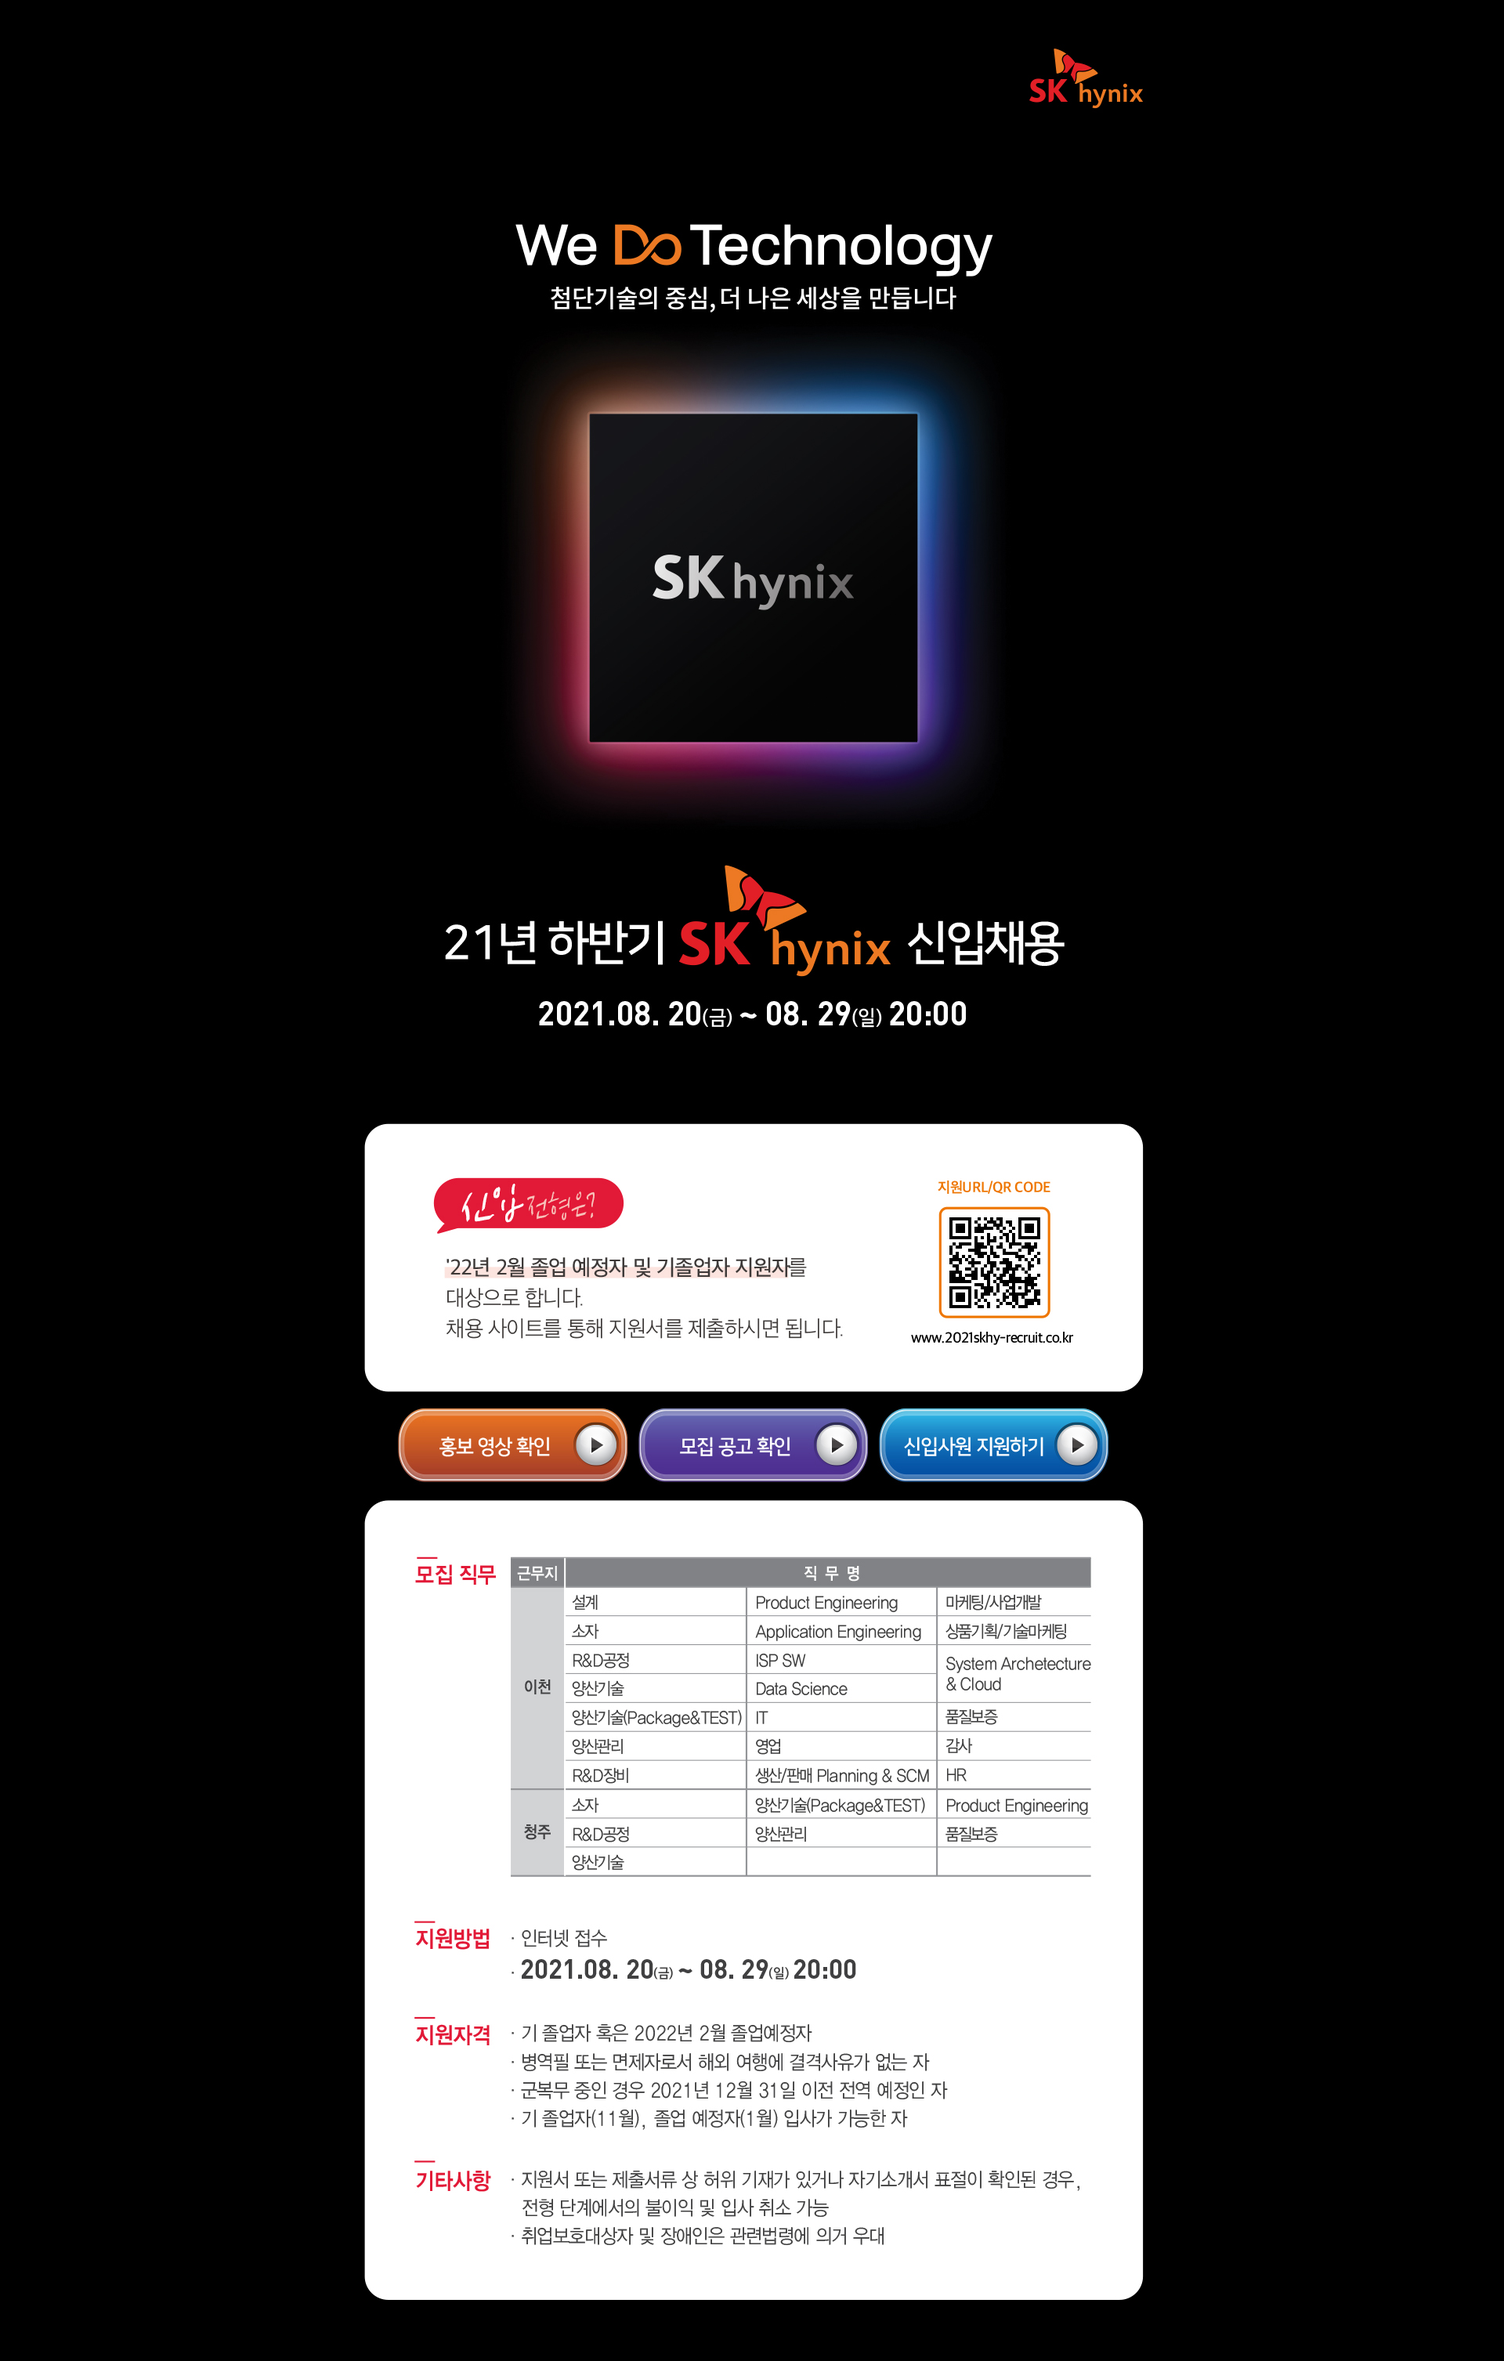
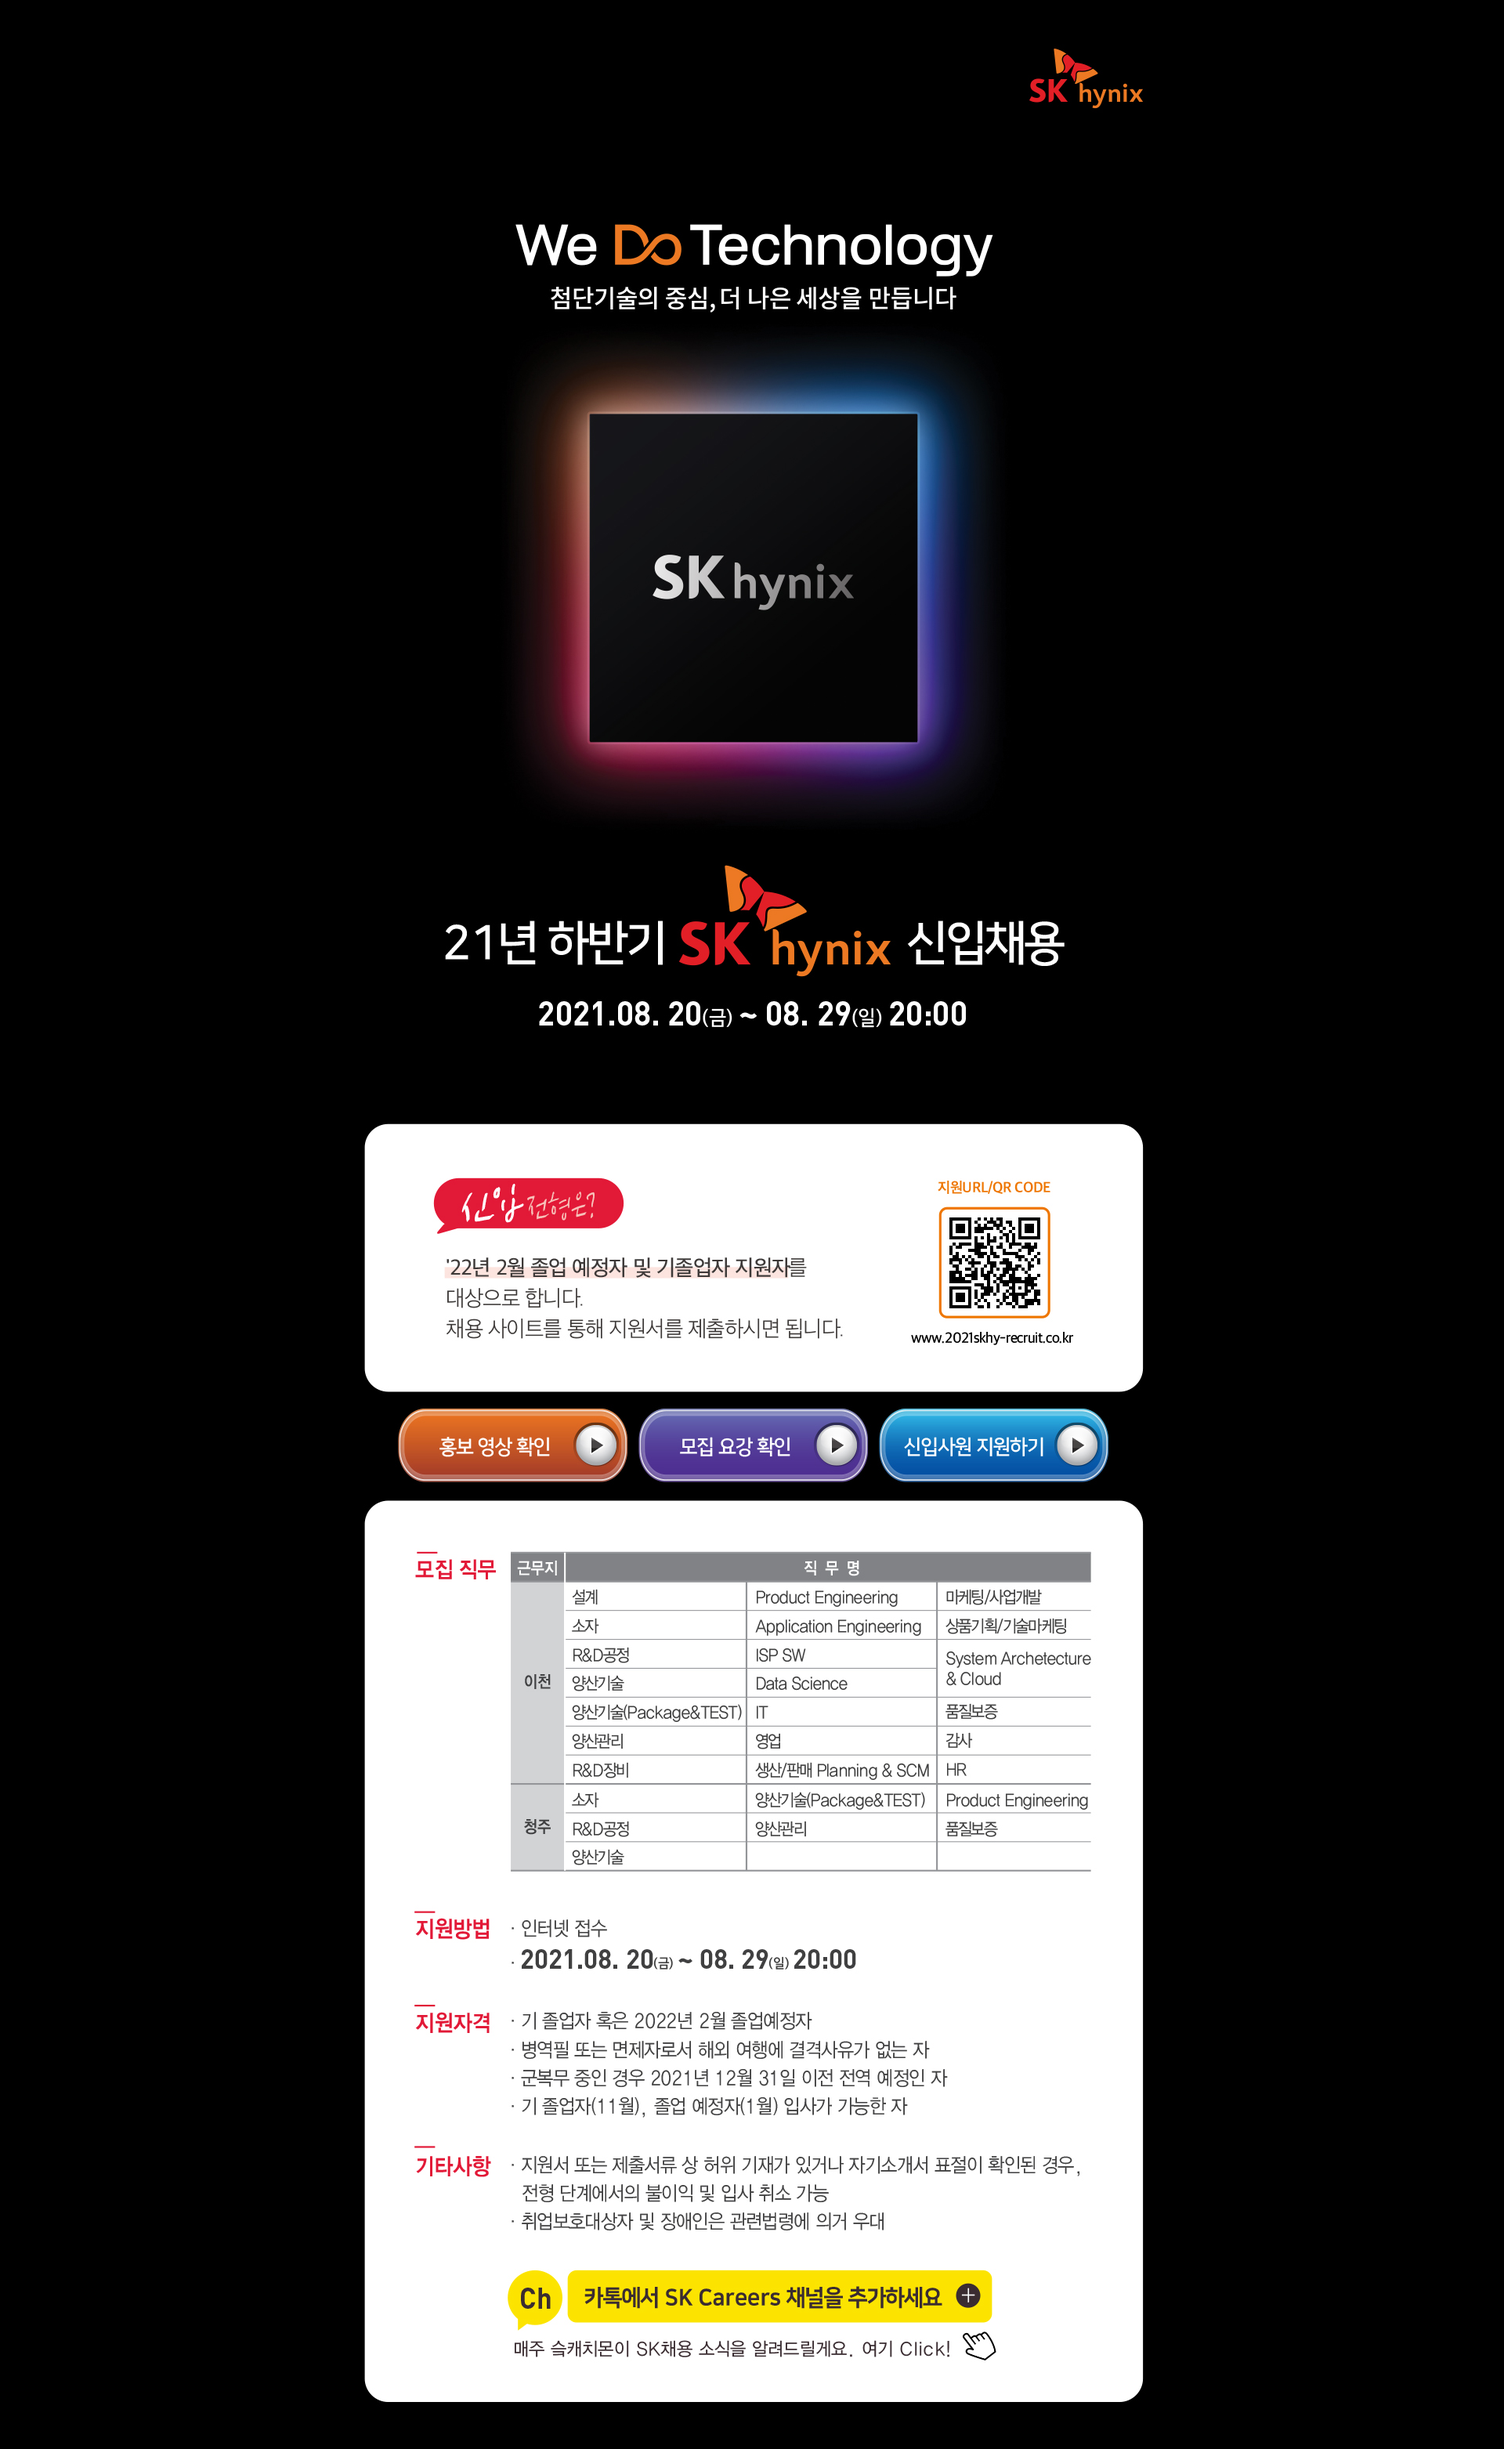
이미지 upload

diff --git a/views/html/index.html b/views/html/index.html
@@ -2,7 +2,7 @@
 <html lang="ko">
 
 <head>
-    <title>2021 하반기 SK하이닉스 신입채용</title>
+    <title>2021 SK하이닉스 Junior Talent 및 신입사원 모집</title>
     <meta charset="UTF-8">
     <meta http-equiv="x-ua-compatible" content="IE=edge"> <!-- IE 문서 모드 -->
     <meta name="viewport"
@@ -15,43 +15,47 @@
     <meta property="og:type" content="website">
     <meta property="og:url" content="">
     <meta property="og:site_name" content="">
-    <meta property="og:title" content="2021 하반기 SK하이닉스 신입채용">
+    <meta property="og:title" content="">
     <meta property="og:description" content="">
-    <meta property="og:image" content="https://www.2021skhy-recruit.co.kr/content/images/ogimage.png?v=210820-1">
+    <meta property="og:image" content="../../content/images/ogimage.png">
     <meta property="og:image:width" content="600">
     <meta property="og:image:height" content="315">
 
     <!-- twitter meta tag -->
     <meta name="twitter:card" content="summary">
     <meta name="twitter:site" content="">
-    <meta property="twitter:title" content="2021 하반기 SK하이닉스 신입채용">
+    <meta property="twitter:title" content="">
     <meta property="twitter:description" content="">
-    <meta property="twitter:image" content="https://www.2021skhy-recruit.co.kr/content/images/ogimage.png?v=210820-1">
+    <meta property="twitter:image" content="../../content/images/ogimage.png">
     <!-- og 이미지는 최상단에 -->
 
-    <link rel="stylesheet" href="../../content/styles/common.css?v=210820-1">
-    <link rel="stylesheet" href="../../content/styles/style.css?v=210820-1">
+    <link rel="stylesheet" href="../../content/styles/common.css">
+    <link rel="stylesheet" href="../../content/styles/style.css">
 </head>
 
 <body>
     <div class="wrap">
         <!-- 버튼 3개 -->
-        <!-- 
-            <img src="../../content/images/pc-image-1.jpg?v=210820-1" class="pc-wrap-image" alt="pc이미지">
-        <img src="../../content/images/mb-image-1.jpg?v=210820-1" class="mb-wrap" alt="mb이미지">
-        <a href="javascript:void(0);" class=""><img src="../../content/images/pc-btn1.png?v=210820-1" alt="홍보 영상 확인"></a>
-        <a href="www.skhynix-requirements.com" title="새 창 이동" target="_blank"><img
-                src="../../content/images/pc-btn2.png?v=210820-1" alt="모집 공고 확인"></a>
-        <a href="https://recruit.skhynix.com/servlet/mnus_main.view" class=""><img src="../../content/images/pc-btn3.png?v=210820-1" alt="신입사원 지원하기"></a> 
+        <!--
+        <img src="../../content/images/pc-image-1.jpg" class="pc-wrap-image" alt="pc이미지">
+        <img src="../../content/images/mb-image-1.jpg" class="mb-wrap" alt="mb이미지">
+        <a href="javascript:void(0);" class=""><img src="../../content/images/pc-btn1.png" alt="홍보 영상 확인"></a>
+        <a href="https://www.skhynix-requirements.com" title="새 창 이동" target="_blank"><img
+                src="../../content/images/pc-btn2.png" alt="모집 공고 확인"></a>
+        <a href="javascript:void(0);" class=""><img src="../../content/images/pc-btn3.png" alt="신입사원 지원하기"></a>
+        21 08 20 네이블 수정 추가
+        <a href="https://pf.kakao.com/_XBADK" class="kakao-btn" title="카톡에서 SK Careers 채널 추가하러 가기"></a>
         -->
         <!-- //버튼 3개 -->
 
         <!-- 버튼 2개 -->
-        <img src="../../content/images/pc-image-2.jpg?v=210820-1" class="pc-wrap-image" alt="pc이미지">
-        <img src="../../content/images/mb-image-2.jpg?v=210820-1" class="mb-wrap" alt="mb이미지">
+        <img src="../../content/images/pc-image-2.jpg" class="pc-wrap-image" alt="pc이미지">
+        <img src="../../content/images/mb-image-2.jpg" class="mb-wrap" alt="mb이미지">
         <a href="https://www.skhynix-requirements.com" title="새 창 이동" target="_blank" class=""><img
-                src="../../content/images/pc-btn2.png?v=210820-1" alt="모집 공고 확인"></a>
-        <a href="https://recruit.skhynix.com/servlet/mnus_main.view" class=""><img src="../../content/images/pc-btn3.png?v=210820-1" alt="신입사원 지원하기"></a>
+                src="../../content/images/pc-btn2.png" alt="모집 공고 확인"></a>
+        <a href="javascript:void(0);" class=""><img src="../../content/images/pc-btn3.png" alt="신입사원 지원하기"></a>
+        <!-- 21 08 20 네이블 수정 추가 -->
+        <a href="https://pf.kakao.com/_XBADK" class="kakao-btn" title="카톡에서 SK Careers 채널 추가하러 가기"></a>
         <!-- //버튼 2개 -->
     </div>
 

diff --git a/content/styles/style.css b/content/styles/style.css
@@ -1,21 +1,35 @@
 @charset "utf-8";
 
+
 .wrap {
-  position: relative;
-  font-size: 0;
+    position: relative;
+    font-size: 0;
 }
 
 .wrap a {
-  position: absolute;
-  bottom: 37.22%;
-  display: block;
-  width: 15.26%;
-  font-size: 0;
+    position: absolute;
+    /* 21 08 20 네이블 수정 */
+    bottom: 39.47%;
+    display: block;
+    width: 15.26%;
+    font-size: 0;
 }
 
+
+/* 21 08 20 네이블 수정 추가 */
+.wrap a.kakao-btn {
+    left: 33.75%;
+    bottom: 3.61%;
+    width: 32.5%;
+    height: 3.67%;
+    display: block;
+}
+
+/* //21 08 20 네이블 수정 추가 */
+
 /* 버튼 3개 */
-/* 
-.wrap a:nth-child(3) {
+
+/* .wrap a:nth-child(3) {
     left: 26.45%;
 }
 
@@ -25,45 +39,54 @@
 
 .wrap a:nth-child(5) {
     left: 58.42%;
-} 
-*/
+} */
+
 /* //버튼 3개 */
 
 /* 버튼 2개 */
 .wrap a:nth-child(3) {
-  left: 32.81%;
+    /* 21 08 20 네이블 수정  */
+    left: 33.07%;
 }
 
 .wrap a:nth-child(4) {
-  left: 51.87%;
+    /* 21 08 20 네이블 수정 */
+    left: 52.18%;
 }
 
 /* //버튼 2개 */
 
 .mb-wrap {
-  display: none;
+    display: none;
 }
 
 @media (max-width: 576.98px) {
-  .pc-wrap-image {
-    display: none;
-  }
 
-  .mb-wrap {
-    display: block;
-  }
+    .pc-wrap-image {
+        display: none;
+    }
 
-  .wrap a {
-    position: absolute;
-    bottom: 37.18%;
-    display: block;
-    width: 26.63%;
-    font-size: 0;
-  }
+    .mb-wrap {
+        display: block;
+    }
 
-  /* 버튼 3개 */
-  /* 
-    .wrap a:nth-child(3) {
+    .wrap a {
+        /* 21 08 20 네이블 수정 */
+        /* bottom: 37.18%; */
+        width: 26.63%;
+    }
+
+    /* 21 08 20 네이블 수정 추가 */
+    .wrap a.kakao-btn {
+        left: 21.72%;
+        width: 56.72%;
+    }
+
+    /* //21 08 20 네이블 수정 추가 */
+
+    /* 버튼 3개 */
+
+    /* .wrap a:nth-child(3) {
         left: 8.9%;
     }
 
@@ -73,18 +96,20 @@
 
     .wrap a:nth-child(5) {
         left: 64.72%;
-    } 
-    */
-  /* //버튼 3개 */
+    } */
 
-  /* 버튼 2개 */
-  .wrap a:nth-child(3) {
-    left: 20.09%;
-  }
+    /* //버튼 3개 */
 
-  .wrap a:nth-child(4) {
-    left: 53.36%;
-  }
+    /* 버튼 2개 */
+    .wrap a:nth-child(3) {
+        /* 21 08 20 네이블 수정 */
+        left: 20.54%;
+    }
 
-  /* //버튼 2개 */
+    .wrap a:nth-child(4) {
+        /* 21 08 20 네이블 수정 */
+        left: 53.90%;
+    }
+
+    /* //버튼 2개 */
 }
